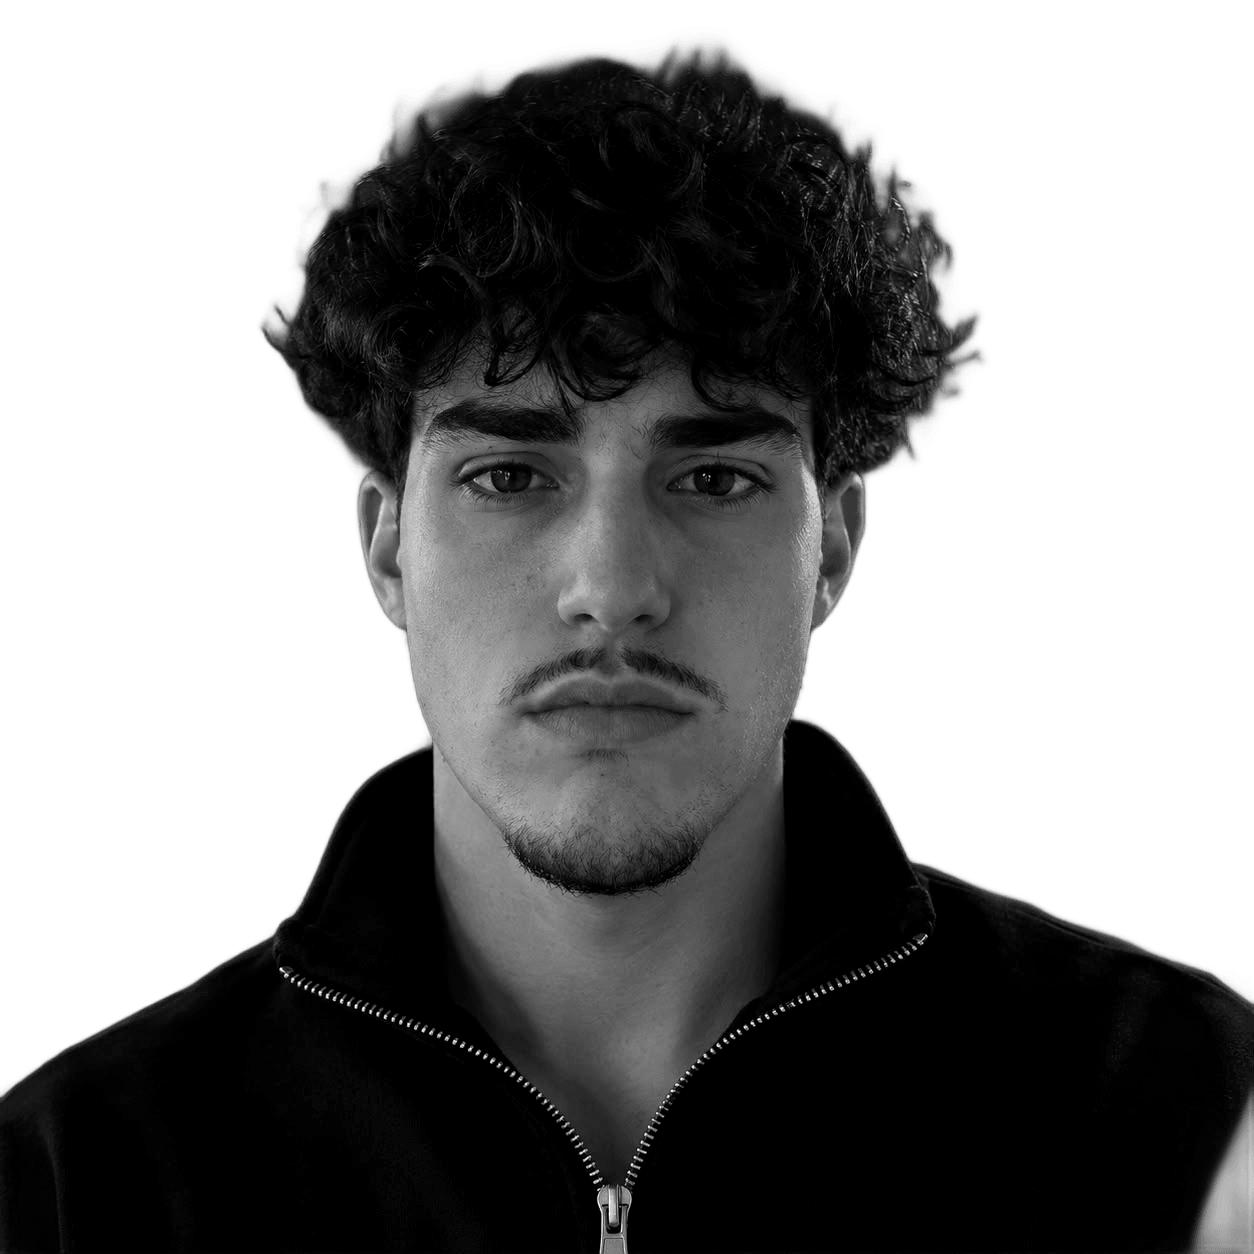
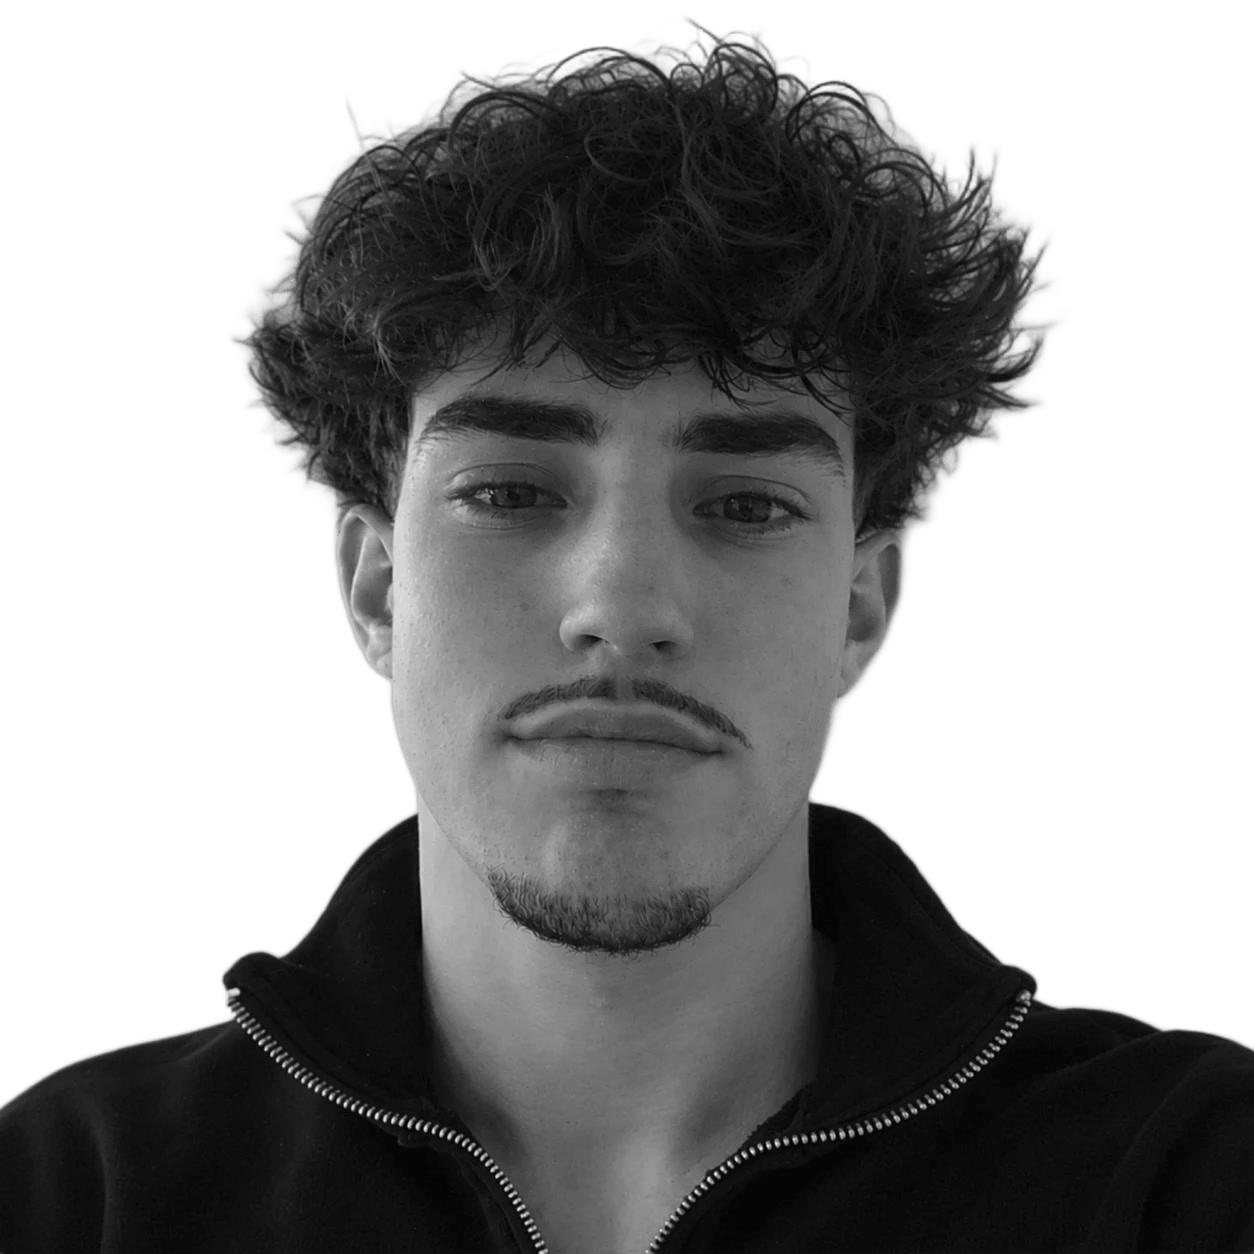
Nieuwe uitgeknipte portretfoto

diff --git a/student.html b/student.html
@@ -43,7 +43,7 @@
       </div>
     </div>
     <figure style="margin:0;max-width:340px;justify-self:end;width:100%">
-      <div class="portrait portrait-zw"><img src="images/david-mulder-zw.png" alt="Portret van David Mulder" width="1254" height="1254"><blockquote class="portrait-quote"><p>&ldquo;Online is van nu, en nu moet <mark>betaalbaar</mark> zijn.&rdquo;</p><cite>David Mulder</cite></blockquote></div>
+      <div class="portrait portrait-zw"><img src="images/david-mulder-zw.png?v=1794843819" alt="Portret van David Mulder" width="1254" height="1254"><blockquote class="portrait-quote"><p>&ldquo;Online is van nu, en nu moet <mark>betaalbaar</mark> zijn.&rdquo;</p><cite>David Mulder</cite></blockquote></div>
       <figcaption class="school"><img src="images/logos/kw1c.svg" alt="Koning Willem I College"></figcaption>
     </figure>
   </div>

diff --git a/over-ons.html b/over-ons.html
@@ -44,7 +44,7 @@
       </div>
     </div>
     <figure style="margin:0;max-width:260px;justify-self:end;width:100%">
-      <div class="portrait portrait-zw"><img src="images/david-mulder-zw.png" alt="Portret van David Mulder" width="1254" height="1254"></div>
+      <div class="portrait portrait-zw"><img src="images/david-mulder-zw.png?v=1794843819" alt="Portret van David Mulder" width="1254" height="1254"></div>
     </figure>
   </div>
 </section>
